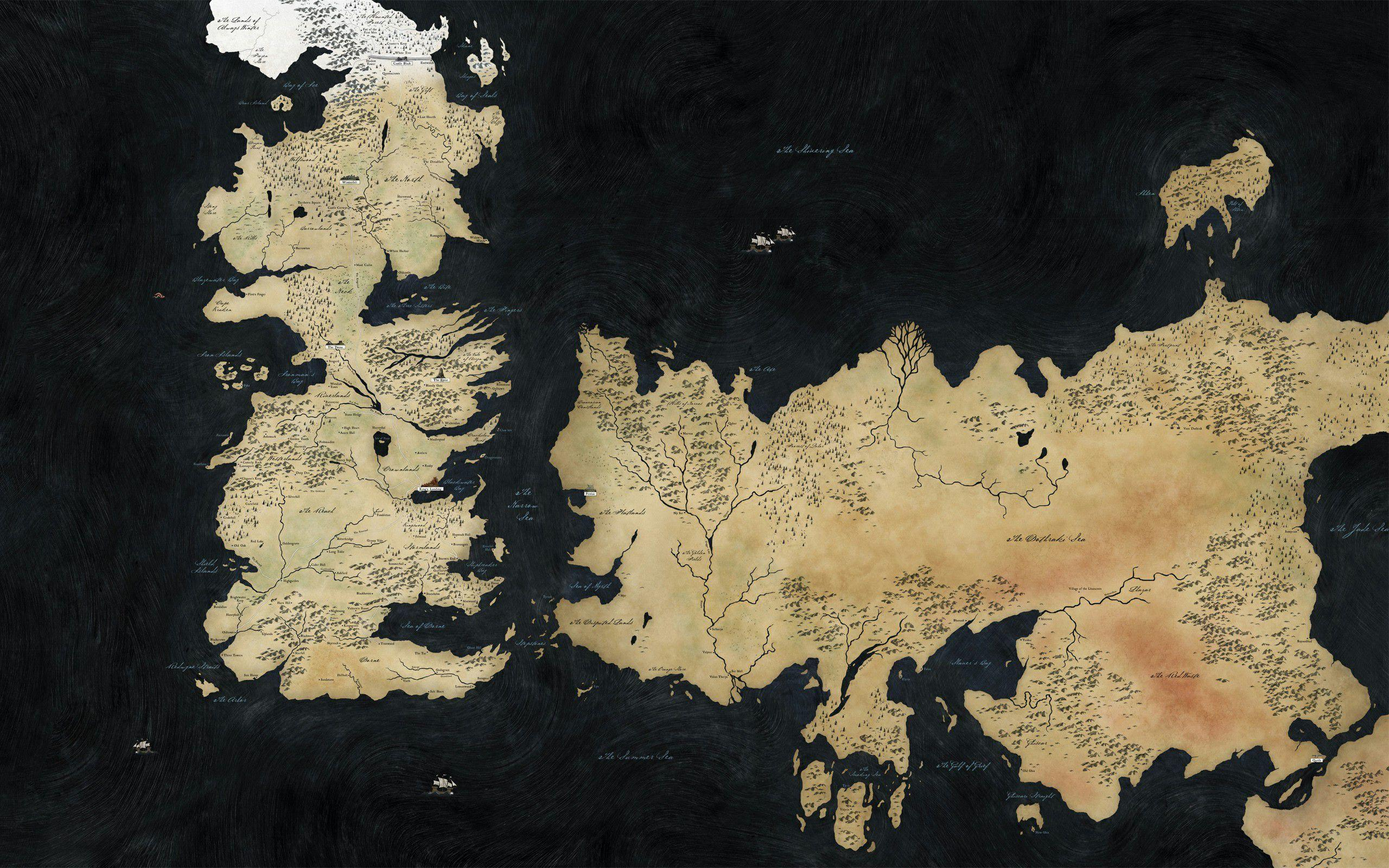
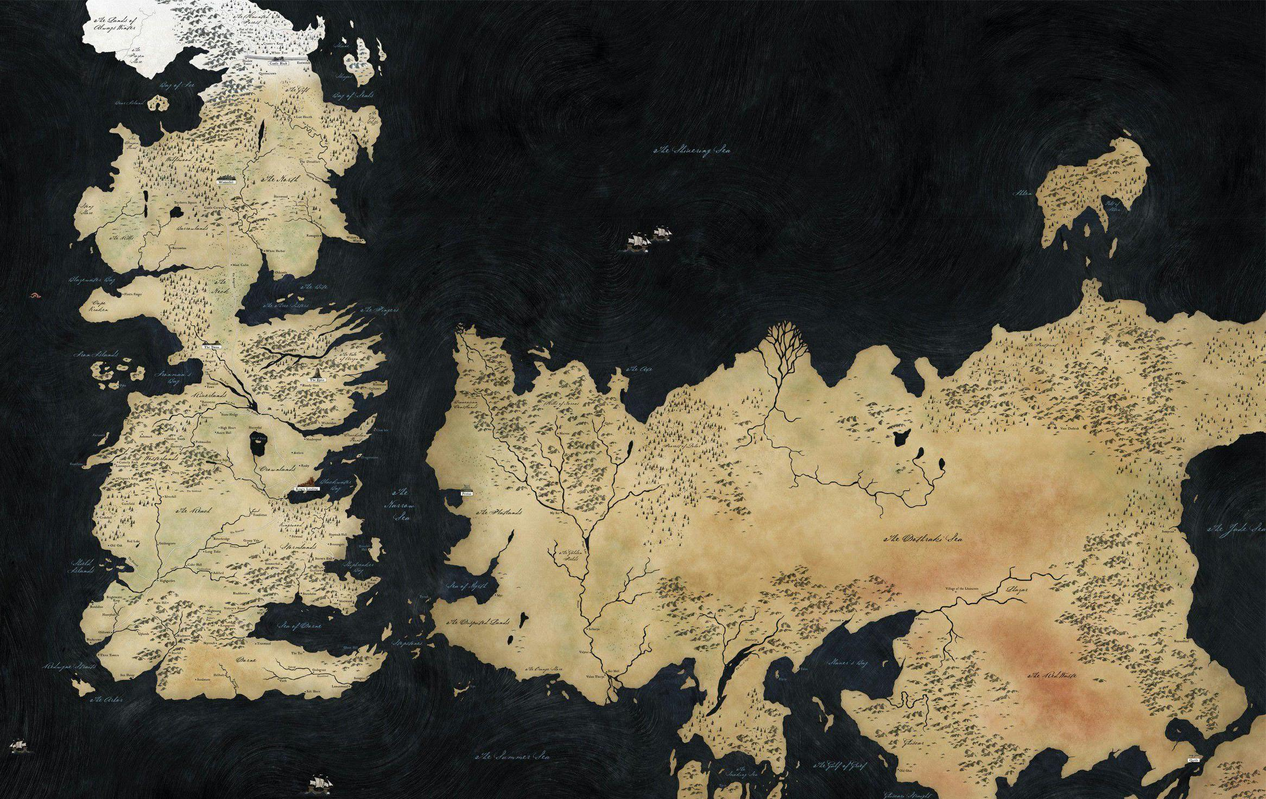
pulled characters

diff --git a/src/components/search/Search.tsx b/src/components/search/Search.tsx
@@ -1,13 +1,73 @@
-import React from "react";
+import React, { useEffect, useState } from "react";
+import {
+  useGetAllCharactersQuery,
+  useGetCharacterByNameQuery,
+} from "../../services/iceandfire";
+import { Character } from "../../types";
+import CharacterItem from "./CharacterItem";
 
 interface SearchProps {}
 
 const Search: React.FC<SearchProps> = ({}) => {
+  // let isSearch = false;
+  const [isSearch, setIsSearch] = useState<boolean>(false);
+  const [page, setPage] = useState(1);
+  const { data: allCharacters } = useGetAllCharactersQuery(page);
+
+  const [search, setSearch] = useState<string>("");
+
+  const { data: characterSearch = [] } = useGetCharacterByNameQuery(search);
+
+  const searchChangeHandler = (e: React.ChangeEvent<HTMLInputElement>): void =>
+    setSearch(e.target.value);
+
+  const searchSubmitHandler = (e: React.FormEvent<HTMLFormElement>) => {
+    setIsSearch(true);
+    characterSearch.map((c: Character) => console.log(c.name));
+    e.preventDefault();
+  };
+
   return (
     <div className="row container m-auto">
-      <div className="col-12 col-md-10 col-lg-7 container bg-black wb-rounded-border bg-opacity-75">
-        
+      <div className="col-12">
+        <div className="container col-10 col-lg-7 col-xl-5 m-auto rounded-pill bg-black d-flex align-items-center border">
+          <i className="bi bi-search text-white d-inline position-absolute ms-1"></i>
+          <form onSubmit={searchSubmitHandler}>
+            <input
+              type="text"
+              className="text-white form-control rounded-pill form-control-lg border-0 d-inline ms-3 shadow-none bg-black"
+              id="search"
+              placeholder="Search Websteros"
+              value={search}
+              onChange={searchChangeHandler}
+            />
+            <button type="submit" className="d-none"></button>
+          </form>
+        </div>
       </div>
+
+      {/* {!isSearch && ( */}
+      <div className="mt-5 col-12 col-md-10 col-lg-10 container bg-black wb-rounded-border bg-opacity-75">
+        <h1 className="">Characters</h1>
+        <div className="row d-flex justify-content-center">
+          {allCharacters?.map((character: Character) => {
+            const characterId =
+              character?.url.split("/")[4] + "/" + character?.url.split("/")[5];
+            return (
+              character.name && (
+                <CharacterItem key={characterId} id={characterId} />
+              )
+            );
+          })}
+          <button onClick={() => setPage(page - 1)}>
+            Previous
+          </button>
+          <button onClick={() => setPage(page + 1)}>
+            Next
+          </button>
+        </div>
+      </div>
+      {/* )} */}
     </div>
   );
 };

diff --git a/src/services/iceandfire.ts b/src/services/iceandfire.ts
@@ -1,13 +1,36 @@
 import { createApi, fetchBaseQuery } from '@reduxjs/toolkit/query/react'
+import { Book, Character, House } from '../types'
+
+interface ListResponse<T> {
+  page: number
+  per_page: number
+  total: number
+  total_pages: number
+  data: T[]
+}
 
 export const iceAndFireApi = createApi({
   reducerPath: 'iceAndFireApi',
   baseQuery: fetchBaseQuery({ baseUrl: 'https://www.anapioficeandfire.com/api' }),
   endpoints: (builder) => ({
-    getCategories: builder.query<any, string>({
-      query: () => "/",
+    getAllBooks: builder.query<Book[], any>({
+      query: () => "/books",
     }),
+    getAllCharacters: builder.query<Character[], any>({
+      query: (page = 1) => `/characters?page=${page}&pageSize=50`,
+    }),
+    getCharacterByName: builder.query<Character[], any>({
+      query: (name) => `/characters?name=${name}`,
+    }),
+    getAllHouses: builder.query<House[], any>({
+      query: () => "/houses?page=1&pageSize=50",
+    })
   }),
 })
 
-export const { useGetCategoriesQuery } = iceAndFireApi
+export const { 
+  useGetAllBooksQuery,
+  useGetAllCharactersQuery,
+  useGetCharacterByNameQuery,
+  useGetAllHousesQuery,
+ } = iceAndFireApi

diff --git a/src/components/search/CharacterItem.tsx b/src/components/search/CharacterItem.tsx
@@ -1,0 +1,36 @@
+import React from "react";
+import { Character } from "../../types";
+import { useGetAllCharactersQuery } from "../../services/iceandfire";
+import { Link } from "react-router-dom";
+
+interface CharacterItemProps {
+  id: string;
+}
+
+const CharacterItem: React.FC<CharacterItemProps> = ({ id }) => {
+  const { character } = useGetAllCharactersQuery(undefined, {
+    selectFromResult: ({ data }) => ({
+      character: data?.find((character) => character?.url.split("/")[4] + "/" + character?.url.split("/")[5] === id),
+    }),
+  });
+  return (
+    <Link
+      className="col-3 wb-bg-brown wb-rounded-border border text-decoration-none text-white m-2"
+      to={`/characters/${character?.url.split("/")[5]}`}
+    >
+      {character && (
+        <div className="">
+          <div>
+            <h4 className="">{character.name}</h4>
+            {character.aliases.length && (
+              <small className="text-secondary">{character.aliases[0]}</small>
+            )}
+          </div>
+          {character.culture && <span>{character.culture}</span>}
+        </div>
+      )}
+    </Link>
+  );
+};
+
+export default CharacterItem;

diff --git a/src/App.tsx b/src/App.tsx
@@ -15,23 +15,16 @@ const App: React.FC = () => {
   return (
     <Provider store={store}>
       <ApiProvider api={iceAndFireApi}>
-        <div className="wb-bg-image-div">
-          <img
-            src="/map-full.jpg"
-            alt="got-map"
-            className="wb-bg-image"
-            loading="eager"
-          />
-        </div>
-        <BrowserRouter>
-          <NavigationBar />
-          <Routes>
-            <Route index element={<Home />}></Route>
-            <Route path="/profile" element={<Profile />}></Route>
-            <Route path="/search" element={<Search />}></Route>
-            <Route path="/login" element={<Login />}></Route>
-          </Routes>
-        </BrowserRouter>
+          <BrowserRouter>
+            <NavigationBar />
+            <Routes>
+              <Route index element={<Home />}></Route>
+              <Route path="/profile" element={<Profile />}></Route>
+              <Route path="/search" element={<Search />}></Route>
+              <Route path="/login" element={<Login />}></Route>
+            </Routes>
+          </BrowserRouter>
+        
       </ApiProvider>
     </Provider>
   );

diff --git a/src/index.css b/src/index.css
@@ -1,23 +1,17 @@
 body {
     background-color: rgb(35, 35, 35) !important;
     color: white;
-    /* background-image: url('./assets/map-full.jpg');
-    background-repeat: no-repeat;
+    background-image: url('./assets/map-full.jpg');
+    /* background-repeat: no-repeat;
     background-size: cover;
     background-attachment: fixed; */
-}
+    height: 100%; 
 
-.wb-bg-image-div {
-    width: 100vw;
-}
-
-.wb-bg-image {
-    pointer-events: none;
-    position: absolute;
-    /* height: 100%; */
-    width: 100%;
-    z-index: -1;
-    opacity: 60%;
+  /* Create the parallax scrolling effect */
+  background-attachment: fixed;
+  /* background-position: center; */
+  background-repeat: no-repeat;
+  background-size: cover;
 }
 
 .wb-text-gray {
@@ -34,4 +28,14 @@ body {
 
 .wb-bg-gray-light {
     background-color: rgb(62, 62, 62) !important;
+}
+
+.wb-bg-brown {
+    background-color: rgb(103, 51, 30, 0.5);
+    /* #67331e; */
+}
+
+.wb-bg-brown:hover {
+    background-color: rgb(103, 51, 30, 1);
+    /* #67331e; */
 }

diff --git a/src/types.ts b/src/types.ts
@@ -1,0 +1,51 @@
+export type Book = {
+  url: string;
+  name: string;
+  isbn: string;
+  authors: string[];
+  numberOfPages: number;
+  publisher: string;
+  country: string;
+  mediaType: string;
+  released: string;
+  characters: string[];
+  povCharacters: string[];
+};
+
+export type Character = {
+  url: string;
+  name: string;
+  gender: string;
+  culture: string;
+  born: string;
+  died: string;
+  titles: string[];
+  aliases: string[];
+  father: string;
+  mother: string;
+  spouse: string;
+  allegiances: string[];
+  books: string[];
+  povBooks: string[];
+  tvSeries: string[];
+  playedBy: string[];
+};
+
+export type House = {
+  url: string;
+  name: string;
+  region: string;
+  coatOfArms: string;
+  words: string;
+  titles: string[];
+  seats: string[];
+  currentLord: string;
+  heir: string;
+  overlord: string;
+  founded: string;
+  founder: string;
+  diedOut: string;
+  ancestralWeapons: string[];
+  cadetBranches: string[];
+  swornMembers: string[];
+};

diff --git a/src/components/home/Home.tsx b/src/components/home/Home.tsx
@@ -1,17 +1,15 @@
 import React from 'react'
-import { useGetCategoriesQuery } from '../../services/iceandfire';
+import { useGetAllBooksQuery } from '../../services/iceandfire';
+import { Book } from '../../types';
 
-interface HomeProps {
-  
-}
+interface HomeProps {}
 
 const Home: React.FC<HomeProps> = ({}) => {
-  const { data, isLoading } = useGetCategoriesQuery("")
+  const { data =[], isLoading } = useGetAllBooksQuery("")
   return (
     <div className="row container m-auto">
       <div className="col-12 col-md-10 col-lg-7 container bg-black wb-rounded-border bg-opacity-75">
-        {/* {JSON.stringify(data)} */}
-        Lorem, ipsum dolor sit amet consectetur adipisicing elit. Dolores voluptate nobis molestias qui exercitationem temporibus, corporis asperiores odio nostrum. Mollitia, facilis doloremque sunt odit numquam voluptas hic recusandae voluptatem eius!
+        {data.map((book: Book) => <p>{book.name}</p>)}
       </div>
     </div>
   );

diff --git a/src/App.css b/src/App.css
@@ -15,7 +15,7 @@ form i {
 
 .wb-websteros {
     font-family: gameOfThrones;
-    left: 250px;
+    left: 200px;
     top: 30px;
     text-shadow: 0px 0px 20px red;
     /* color: rgba(255, 0, 0, 1); */
